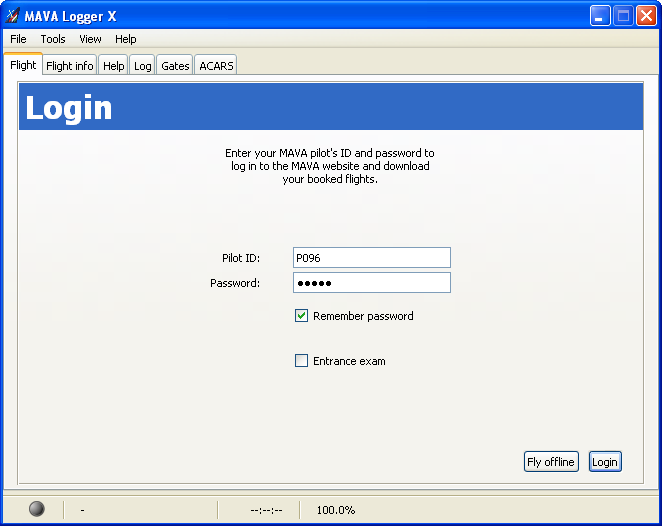
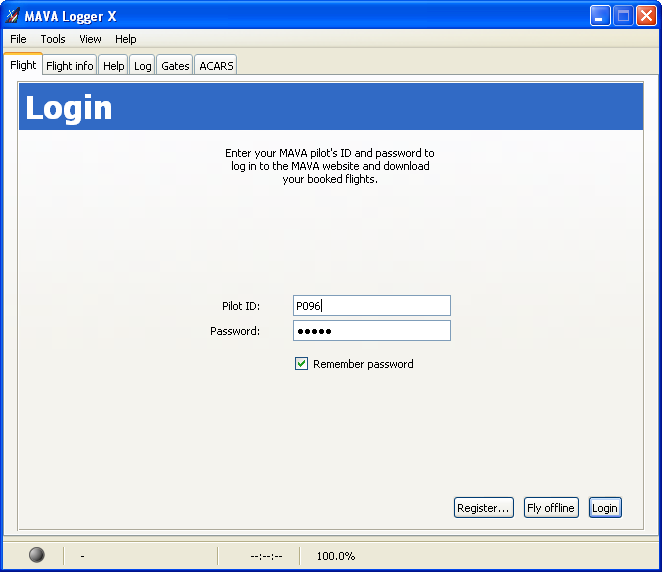
Updated the documentation to reflect the changes related to the registration (re #285)

diff --git a/doc/manual/hu/index.html b/doc/manual/hu/index.html
@@ -197,6 +197,20 @@
   főablaka jelenik meg ahelyett, hogy új példány indulna el.
   </p>
 
+  <p>
+  Ha a számítógépen először fut a program, az alábbi dialógus ablak jelenik meg:
+  </p>
+  <div align="center">
+    <img src="registrationDialog.png" alt="A regisztrációra rákérdező dialógus"/>
+  </div>
+
+  <p>
+  Ha még nincs regisztrációnk a MAVA-nál, kattintsunk a <b>Regisztráció</b>
+  gombra. A regisztráció folyamatának leírása <a href="#registration">itt</a>
+  olvasható el. Ha már van pilóta azonosítónk és jelszavunk, kattintsunk a
+  <b>Mégse</b> gombra, és az alábbiakban leírtaknak megfelelően haladjunk tovább.
+  </p>
+
   <h2><a name="mainWindow">A főablak</a></h2>
 
   <p>
@@ -1272,6 +1286,86 @@
   ablaknak a segítségével dönthető el, hogy a probléma a szimulátorból
   kiolvasott adatok átalakításával, vagy a már átalakított értékek
   feldolgozásával van-e.
+  </p>
+
+  <h2><a name="registration">Regisztráció</a></h2>
+
+  <img src="registration.png" alt="A Regisztráció oldal"/>
+
+  <p>
+  Ha a regisztrálás mellett döntöttünk, a <i>Regisztráció</i> oldal jelenik
+  meg. Írjuk be a kért adatokat. A dőlt betűvel jelölt adatokat (a
+  telefonszámot és a nemzetiséget) nem kötelező megadni. A VATSIM és az IVAO
+  azonosítók közül az egyiket viszont kötelező megadni, így valamelyik
+  hálózatban regisztráljunk előbb. A jelszónak legalább 5 karakter hosszúnak
+  kell lennie. Javasolt olyat választani, amelyben kis- és nagybetűk, számok
+  és akár speciális karakterek is egyaránt megtalálhatók.
+  </p>
+
+  <p>
+  Ha minden szükséges adatot beírtunk, kattintsünk a <b>Regisztráció</b>
+  gombra. Az adatok bekerülnek a MAVA adatbázisába, és ha minden jól megy, egy
+  dialógus ablakban megkapjuk a <i>pilóta azonosító</i>nkat. Ennek alkja
+  <i>Pnnn</i>, ahol <i>nnn</i> egy háromjegyű szám (pl. <i>P210</i>).
+  Ezt a jelszóval együtt célszerű lejegyezni. Ezekkel az adatokkal tudunk
+  bejelentkezni a MAVA weboldalára, fórumába és az oktatóközpontba.
+  </p>
+
+  <p>
+  Ha a megjelenő dialógus ablakban az <b>OK</b>-ra kattintunk, a <i>Jelölt</i>
+  lap jelenik meg:
+  </p>
+
+  <img src="student.png" alt="A Jelölt lap"/>
+
+  <p>
+  Itt megtekinthetjük az elméleti vizsga és az ellenőrző repülés állapotát,
+  valamint elindíthatjuk ezen tevékenységeket.
+  </p>
+
+  <p>
+  Az elméleti vizsgált az Interneten,
+  a <a href="http://mavasystems.hu/moodle">MAVA Oktatási Központban</a>
+  tehetjük le. Az <b>Elméleti vizsga</b> gomb megnyomásával a böngészőnkben
+  megjelenik a Központ weboldala, ahol a pilóta azonosítóval és a
+  jelszavunkkal történő bejelentkezés után letehetjük a vizsgát. Ha az sikerül,
+  a <i>Jelölt</i> lapon a vizsga állapota frissül. Erre azonban csak néhány
+  perc elteltével kerül sor, mire a háttérben futó rendszerekben frissül az
+  állapot és erről a logger is értesül.
+  </p>
+
+  <p>
+  Az ellenőrző repülés egy egyszerű repülés, amely során a ferihegyi
+  repülőtérről (LHBP) felszállünk, lerepüljük a szabványos indulási eljárást
+  (SID-et), majd egy megközelítési transition kezdőpontjára repülünk,
+  lerepüljük a transitiont és végül leszállunk. (Ha az előző mondatban szereplő
+  egyes fogalmak jelentése nem világos, úgy nézzünk ezeknek utána, mert a
+  normál járatok teljesítéséhez is tudnunk kell, mit jelentenek ezek.)
+  Válasszuk ki a használni kívánt repülőgép típusát (jelenleg a Boeing 737NG
+  család valamelyik típusát vagy a Bombardier Dash-8 Q400-ast), majd
+  kattintsünk az <b>Ellenőrző repülés</b> gombra. Ekkor a normál járatok
+  teljesítésével szinte teljesen megegyező
+  folyamaton <a href="#tabFlight">végigvezet</a> minket a program a
+  <a href="#connectPage"><i>Kapcsolódás</i></a> oldaltól kezdve.
+  </p>
+
+  <p>
+  Az ellenőrző repülés akkor sikeres, ha nem vétettünk olyan súlyos hibát,
+  amelyre már a program is azt mondja, hogy NO-GO. Ellenkező esetben újra kell
+  próbálkoznunk. Ha a járattal kapcsolatban tanácsot szeretnénk kérni, a
+  PIREP-et mindkét esetben elmenthetjük fájlba, és azt elküldhetjünk a MAVA
+  mentorunknak.
+  </p>
+
+  <p>
+  Ha a későbbiekben elindítjuk a programot és bejelentkezünk, az mindig
+  ellenőrzi a rangunkat. Ha az még STU (student - jelölt), akkor mindig
+  a <i>Jelölt</i> oldalra kerülünk a belépés után. Ha minde az elméleti
+  vizsgát, mind az ellenőrző repülést sikeresen teljesítetjük, a rangunk FO
+  (First Officer - elsőtiszt) lesz. Ekkor már foglalhatunk járatokat a MAVA
+  weboldaláln és a logger segítségével le is repülhetjük azokat. Ebben az
+  esetben a <a href="#flightSelectionPage">Járatválasztás</a> oldal jelenik meg
+  a sikeres belépés után.
   </p>
 
 </html>

diff --git a/doc/manual/en/index.html b/doc/manual/en/index.html
@@ -199,6 +199,21 @@
   starting a new instance of the program.
   </p>
 
+  <p>
+  When the program is first started on your computer, you will be presented
+  with the dialog below:
+  </p>
+  <div align="center">
+    <img src="registrationDialog.png" alt="The registration query dialog"/>
+  </div>
+
+  <p>
+  If you have not registered with MAVA yet, click on <b>Register</b>. The
+  registration process is described <a href="#registration">here</a>.
+  If you have a pilot ID and a password already, click <b>Cancel</b> and
+  continue as below.
+  </p>
+
   <h2><a name="mainWindow">The Main Window</a></h2>
 
   <p>
@@ -1235,6 +1250,79 @@
   in interpreting and translating the data read from the simulator, or
   when the translated data is being evaluated by other parts of the
   program.
+  </p>
+
+  <h2><a name="registration">Registration</a></h2>
+
+  <img src="registration.png" alt="The Registration page"/>
+
+  <p>
+  When you choose to register, the <i>Registraton</i> page is displayed. Enter
+  the data requested. The data items in italics (phone number and nationality)
+  are not mandatory. One of VATSIM or an IVAO ID are mandatory, so register
+  with one of these on-line networks first. The password should be at least 5
+  characters long. It is recommended to use one that consists of a mix of
+  upper- and lower-case letters, numbers and possibly special characters.
+  </p>
+
+  <p>
+  When all necessary data has been entered, click <b>Register</b>. Your data
+  will be recored in the MAVA database, and if all goes well, a dialog is
+  displayed containing your <i>Pilot ID</i>, which is in the
+  format <i>Pnnn</i>, where <i>nnn</i> is a 3-digit number (e.g. <i>P210</i>).
+  Note it down for further reference along with your password. These data can
+  be used to log in to the MAVA website, forums and education centre.
+  </p>
+
+  <p>
+  When you click <b>OK</b> in the dialog, you will be taken to the <i>Student</i>
+  page:
+  </p>
+
+  <img src="student.png" alt="The Student page"/>
+
+  <p>
+  This page displays the status of you entry exam and check flight and you can
+  also initiate these from here.
+  </p>
+
+  <p>
+  The entry exam is an online theoretical exam, taken in the
+  <a href="http://mavasystems.hu/moodle">MAVA Education Centre</a>. Clicking
+  the <b>Take the entry exam</b> button takes you to the login page, where you
+  should enter your pilot ID and password to get access to the exam. If you
+  have successfully completed the test the status in the <i>Student</i> page
+  will update. However, this might take a few minutes until the website will
+  update itself and the logger will also notice it.
+  </p>
+
+  <p>
+  The check flight is a simple flight, during which you take off from the
+  Budapest Ferihegy Airport (LHBP), fly a SID, fly to the entry point of an
+  approach transition, fly the transition and land. (If you are not familiar
+  with these ideas, please, learn about them as you will need to know them
+  perform your regular flights for MAVA.) You can select the type of the
+  aircraft you wish to fly (currently the Boeing 737NG family and the Bomardier
+  Dash-8 Q400 are available), and then click on <b>Perform the check
+  flight</b>. You will be then <a href="#tabFlight">taken through</a> the steps
+  of the flight almost as in case of a regular flight starting with the
+  <a href="#connectPage"><i>Connect</i></a> page.
+  </p>
+
+  <p>
+  Your flight is successful, if you commit no NO-GO mistakes, otherwise you
+  need to try it again. In both cases you can save the PIREP into a file and
+  send it to your mentor at MAVA for further advice.
+  </p>
+
+  <p>
+  If you start the program later, it will check your rank. If it is STU
+  (student), you will always be taken to this page. If you have passed both the
+  entry exam and the check flight, your rank will become FO (First Officer) and
+  which case you select flights via the MAVA website and fly them with the
+  logger. In this case, you will be taken to
+  the <a href="#flightSelectionPage">Flight selection</a> page after a
+  successful login.
   </p>
 
 </html>
